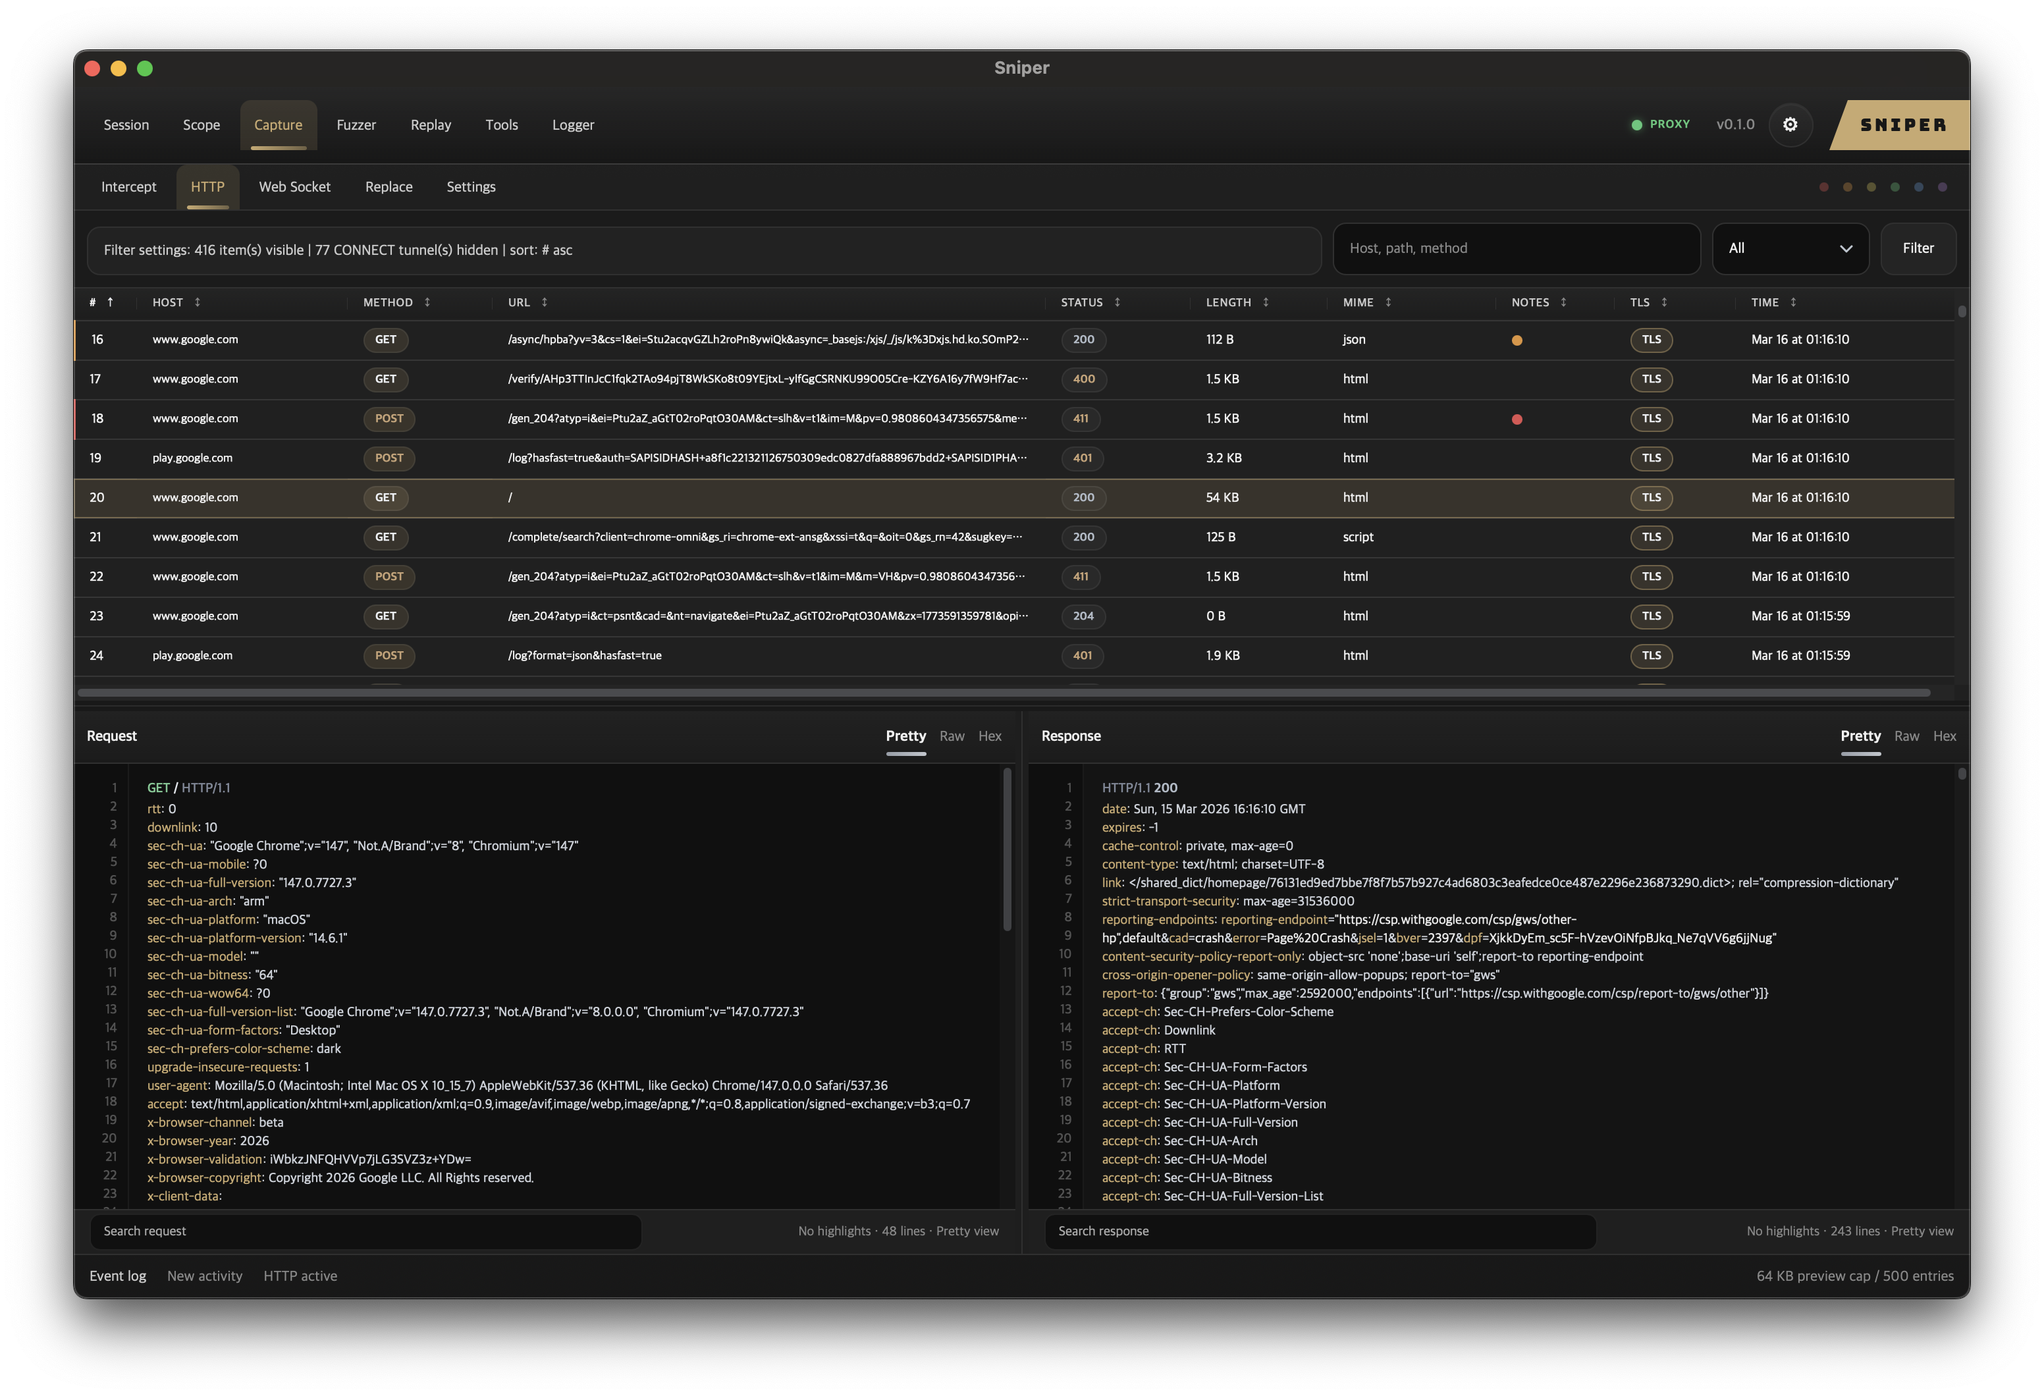
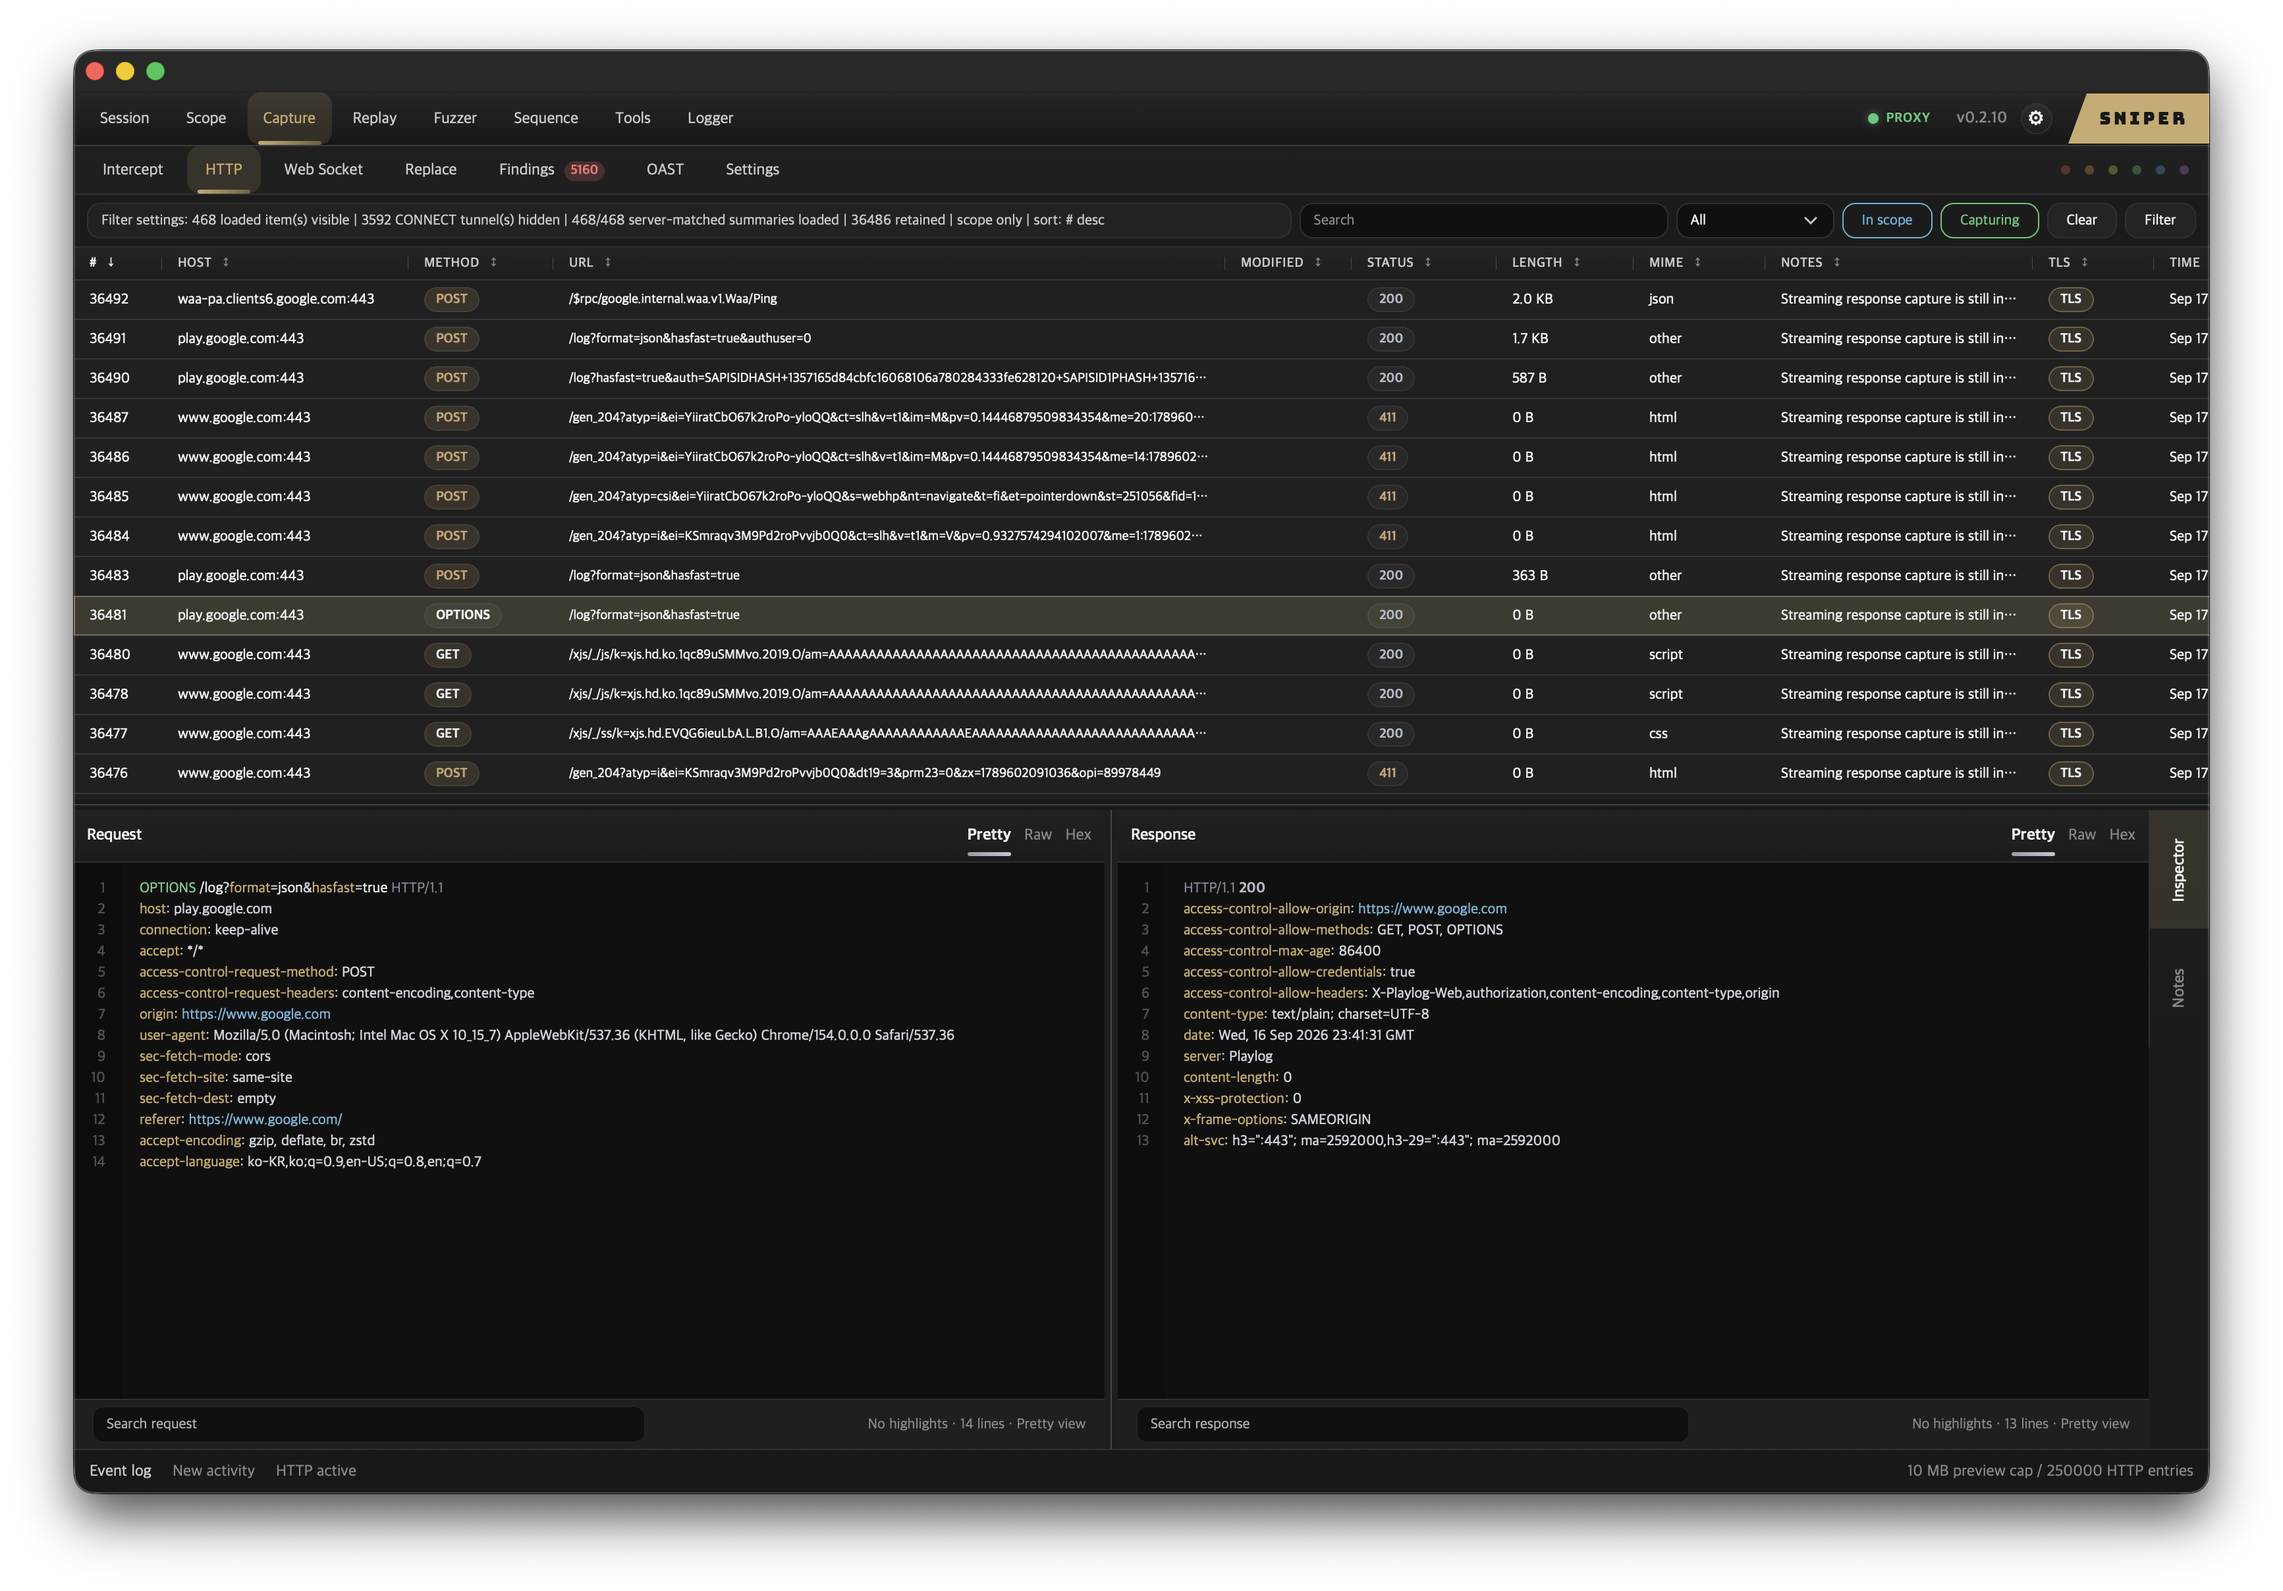
Let the inspector pane be resized on a narrow window
The inspector handle was hidden below 1480px and every workbench handle
below 1260px — exactly the widths where the inspector eats the most
space and an operator most wants to trim it. On a 1280px laptop window
the panel was stuck at whatever the breakpoint's default happened to be.

The handle now survives down to 980px, where the panes stack and the
panel is hidden outright anyway. The request/response handle keeps its
1260px cutoff: those two panes really are at their minimums there.

Two things had to follow. The drag handler picked its breakpoint from a
single constant, so it refused to start below 1260px; it now picks the
one belonging to its mode. And below 1260px the panes are two equal fr
tracks that ignore the width variables, so recording what they measure
during an inspector drag would have quietly flattened a split chosen on
a wider window — that half of applyWorkbenchPaneWidths is now skipped.

Drops the inspector minimum from 300px to 240px, on both sides, so the
handle has somewhere to go.

Also replaces the README and landing page screenshot.

diff --git a/web/app.js b/web/app.js
@@ -958,10 +958,15 @@ let toolsBootPromise = null;
 let displaySettingsPreviewActive = false;
 
 const WORKBENCH_STACK_BREAKPOINT = "(max-width: 1260px)";
+// The inspector keeps its handle well past the point where request and response
+// give theirs up: those two hit their minimums at 1260px, but the inspector is
+// exactly the pane an operator wants to trim on a narrow window. It only stops
+// being resizable at 980px, where the panes stack and the panel is hidden.
+const INSPECTOR_STACK_BREAKPOINT = "(max-width: 980px)";
 const WORKBENCH_MIN_WIDTHS = {
   request: 320,
   response: 320,
-  inspector: 300,
+  inspector: 240,
 };
 const WEBSOCKET_WORKBENCH_BREAKPOINT = "(max-width: 980px)";
 const WEBSOCKET_WORKBENCH_MIN_WIDTHS = {
@@ -19048,8 +19053,12 @@ function bindPaneResizer(handle, mode) {
     scheduleUiSettingsSave();
   });
 
+  const stackBreakpoint = mode === "response-inspector"
+    ? INSPECTOR_STACK_BREAKPOINT
+    : WORKBENCH_STACK_BREAKPOINT;
+
   handle.addEventListener("mousedown", (event) => {
-    if (window.matchMedia(WORKBENCH_STACK_BREAKPOINT).matches) {
+    if (window.matchMedia(stackBreakpoint).matches) {
       return;
     }
 
@@ -19125,7 +19134,7 @@ function applySavedWorkbenchPaneWidths() {
     return;
   }
   const totalWidth = els.lowerWorkbench.getBoundingClientRect().width;
-  if (!totalWidth || window.matchMedia(WORKBENCH_STACK_BREAKPOINT).matches) {
+  if (!totalWidth || window.matchMedia(INSPECTOR_STACK_BREAKPOINT).matches) {
     return;
   }
   const currentRequestWidth = els.requestColumn?.getBoundingClientRect().width || totalWidth / 3;
@@ -19156,22 +19165,27 @@ function applyWorkbenchPaneWidths(
     return;
   }
 
-  const requestPercent = clamp((requestWidth / totalWidth) * 100, 18, 72);
-  const responsePercent = clamp((responseWidth / totalWidth) * 100, 18, 72);
-  // fr, not %: these two tracks have to soak up whatever the fixed tracks beside
-  // them leave over. A percentage track is a fixed size, so once the inspector
-  // collapsed from its full width to the 46px rail — or the window grew — the
-  // freed space stayed empty to the right of the rail. fr keeps the same ratio
-  // between the panes and always fills the row.
-  els.lowerWorkbench.style.setProperty("--request-pane-width", `${requestPercent}fr`);
-  els.lowerWorkbench.style.setProperty("--response-pane-width", `${responsePercent}fr`);
   const updateState = options.updateState !== false;
-  if (updateState) {
-    state.workbenchPaneWidths = {
-      ...(state.workbenchPaneWidths || {}),
-      requestPercent: Math.round(requestPercent),
-      responsePercent: Math.round(responsePercent),
-    };
+  // Below the stack breakpoint the panes are two equal fr tracks that ignore
+  // these variables, so recording what they currently measure would quietly
+  // flatten a split the operator chose on a wider window.
+  if (!window.matchMedia(WORKBENCH_STACK_BREAKPOINT).matches) {
+    const requestPercent = clamp((requestWidth / totalWidth) * 100, 18, 72);
+    const responsePercent = clamp((responseWidth / totalWidth) * 100, 18, 72);
+    // fr, not %: these two tracks have to soak up whatever the fixed tracks beside
+    // them leave over. A percentage track is a fixed size, so once the inspector
+    // collapsed from its full width to the 46px rail — or the window grew — the
+    // freed space stayed empty to the right of the rail. fr keeps the same ratio
+    // between the panes and always fills the row.
+    els.lowerWorkbench.style.setProperty("--request-pane-width", `${requestPercent}fr`);
+    els.lowerWorkbench.style.setProperty("--response-pane-width", `${responsePercent}fr`);
+    if (updateState) {
+      state.workbenchPaneWidths = {
+        ...(state.workbenchPaneWidths || {}),
+        requestPercent: Math.round(requestPercent),
+        responsePercent: Math.round(responsePercent),
+      };
+    }
   }
   if (Number.isFinite(inspectorWidth)) {
     const maxInspectorWidth = Math.max(
@@ -19185,7 +19199,10 @@ function applyWorkbenchPaneWidths(
     );
     els.lowerWorkbench.style.setProperty("--inspector-pane-width", `${Math.round(clampedInspectorWidth)}px`);
     if (updateState) {
-      state.workbenchPaneWidths.inspectorWidth = Math.round(clampedInspectorWidth);
+      state.workbenchPaneWidths = {
+        ...(state.workbenchPaneWidths || {}),
+        inspectorWidth: Math.round(clampedInspectorWidth),
+      };
     }
   }
 }

diff --git a/web/styles.css b/web/styles.css
@@ -5509,11 +5509,8 @@ button.utility-button.replay-tab-add {
       minmax(0, var(--request-pane-width, 1fr))
       10px
       minmax(0, var(--response-pane-width, 1fr))
+      10px
       minmax(0, var(--inspector-pane-width, 300px));
-  }
-
-  .lower-workbench > .pane-resizer[data-resizer="response-inspector"] {
-    display: none;
   }
 
   .replay-toolbar {
@@ -5609,12 +5606,13 @@ button.utility-button.replay-tab-add {
       minmax(180px, var(--workbench-pane-height, 38vh));
   }
 
-  .lower-workbench > .pane-resizer {
+  /* Only the request/response split gives up its handle here: those two panes
+     are already at their minimums, while the inspector is the pane that most
+     needs trimming at this width. */
+  .lower-workbench > .pane-resizer[data-resizer="request-response"] {
     display: none;
   }
 
-  /* Both resizers are hidden above, so the three columns here are request,
-     response and the rail. */
   .lower-workbench,
   .lower-workbench.inspector-collapsed {
     grid-template-columns: minmax(0, 1fr) minmax(0, 1fr) 46px;
@@ -5625,6 +5623,7 @@ button.utility-button.replay-tab-add {
     grid-template-columns:
       minmax(0, 1fr)
       minmax(0, 1fr)
+      10px
       minmax(0, var(--inspector-pane-width, 260px));
   }
 
@@ -5662,6 +5661,10 @@ button.utility-button.replay-tab-add {
   /* Panes stack, and the rail runs down the side of both so the inspector stays
      reachable. Placement is explicit because the stacked rows would otherwise
      auto-place the rail into a third row of its own. */
+  .lower-workbench > .pane-resizer {
+    display: none;
+  }
+
   .lower-workbench,
   .lower-workbench.inspector-collapsed,
   .lower-workbench:not(.inspector-collapsed) {

diff --git a/src/ui_settings.rs b/src/ui_settings.rs
@@ -135,7 +135,7 @@ impl WorkbenchPaneWidthsSnapshot {
             inspector_width: self
                 .inspector_width
                 .filter(|width| *width > 0)
-                .map(|width| width.clamp(300, 4_096)),
+                .map(|width| width.clamp(240, 4_096)),
         }
     }
 
